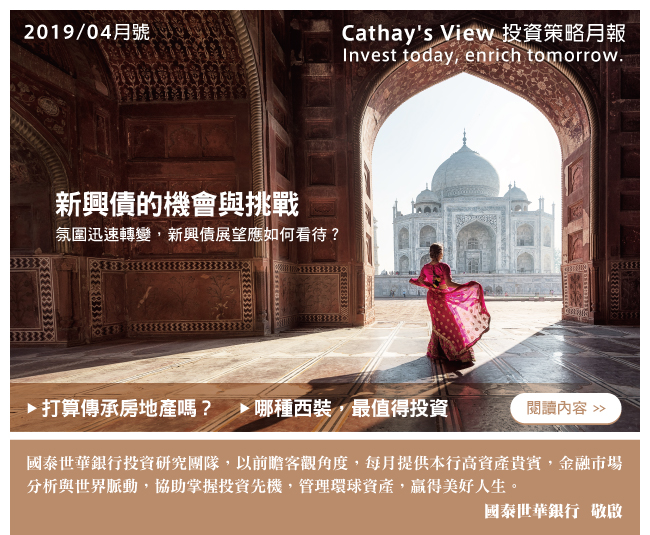
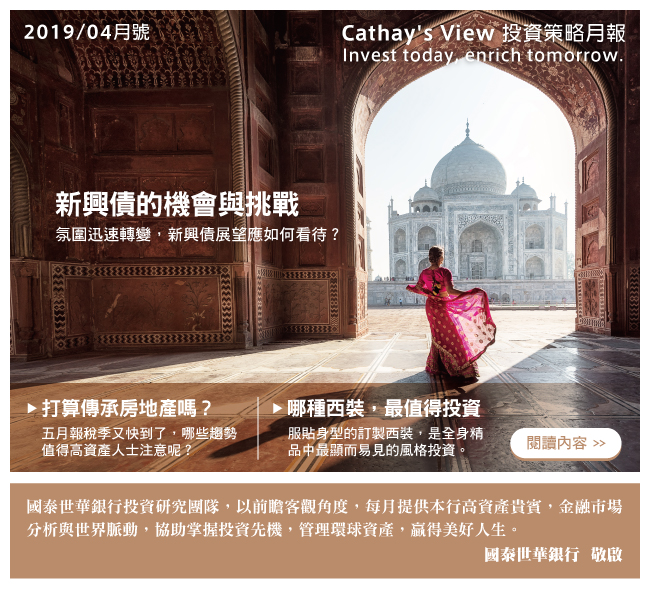
update

diff --git a/Cathay's View 201904/index.html b/Cathay's View 201904/index.html
@@ -97,7 +97,7 @@
 
     <tr>
 
-      <td bgcolor="#CCCCCC" height="540" align="center" style="color:#FFF; font-size:36px;"><a href="images/Cathay's_View_201904.pdf" download="國泰世華銀行-投資策略月報201904"><img src="images/edm201904.jpg" alt="" width="650" height="540" border="0"/></a></td>
+      <td bgcolor="#CCCCCC" height="590" align="center" style="color:#FFF; font-size:36px;"><a href="images/Cathay's_View_201904.pdf" download="國泰世華銀行-投資策略月報201904"><img src="images/edm201904.jpg" alt="" width="650" height="590" border="0"/></a></td>
 
     </tr>
 
